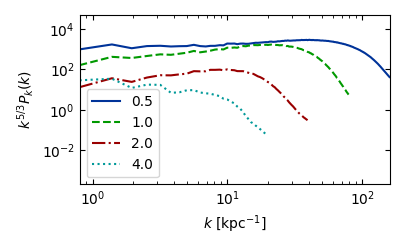
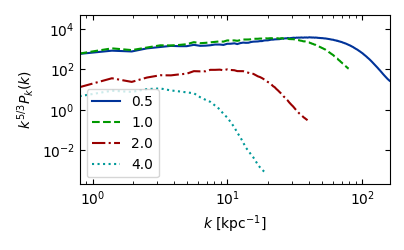
Revised figures

diff --git a/ssdyn_letter.tex b/ssdyn_letter.tex
@@ -723,8 +723,8 @@ Figure\,\ref{fig:eb-res}\,(b) and consistent with the presence of SSD.
 \gridline{\vspace{-0.3cm}  \fig{figs/SN_Bpower.png}{0.45\textwidth}{\vspace{-1.3cm}\hspace{-2cm}(g)}
           \vspace{-0.3cm}  \fig{figs/SN_kpower.png}{0.45\textwidth}{\vspace{-1.3cm}\hspace{-2cm}(h)} }
 \caption{
-(a) -- (f): compensated energy spectra at $t=18\Myr$ ($\dx=0.5\pc$), $t=20\Myr$
-($\dx=1\pc$), $t=100\Myr$ ($\dx=2\pc$) and $t=350\Myr$ ($\dx=4\pc$).
+(a) -- (f): compensated energy spectra at $t=19.5\Myr$ ($\dx=0.5\pc$ \& $1\pc$),
+$t=100\Myr$ ($\dx=2\pc$ \& $4\pc$).
 Resistivity $\eta=0,\,10^{-4}$ and $10^{-3}$ in panel pairs (a,b), (c,d) and
 (e,f), respectively.
 Panels (g,h) for $\dx=2\pc$ at 100\,Myr for $\dot\sigma=0.2\SNr$ and
